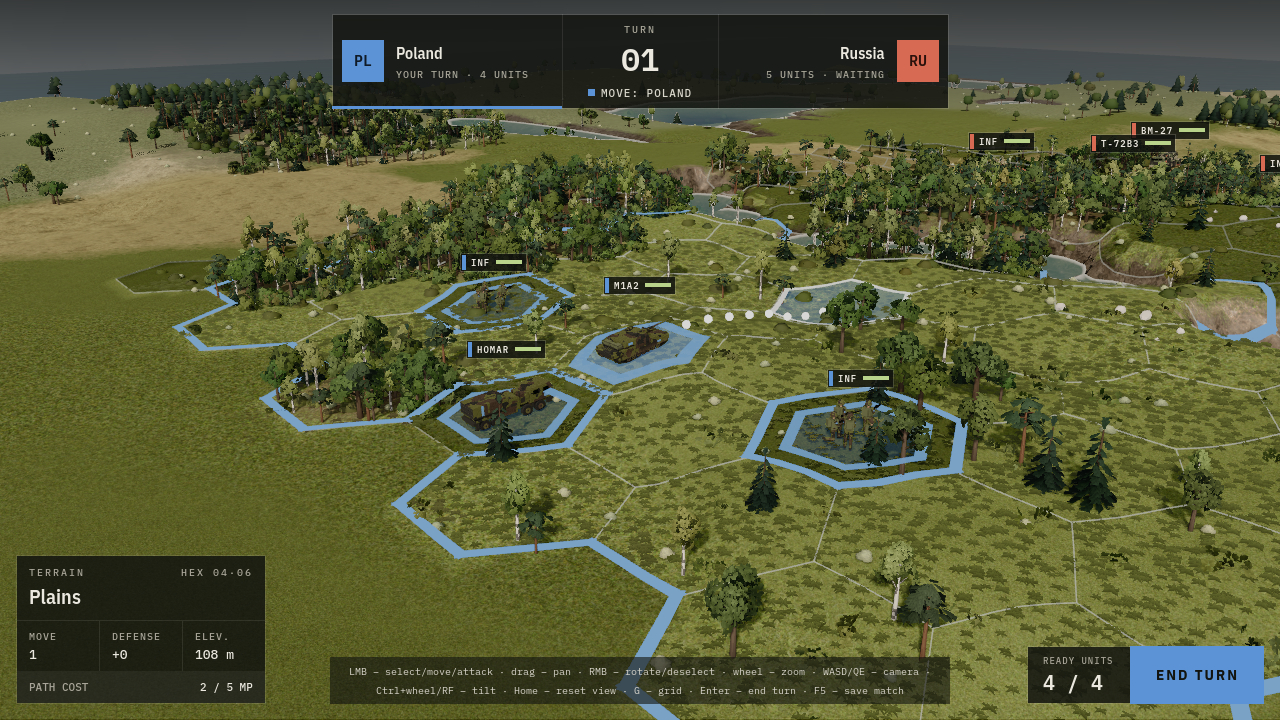
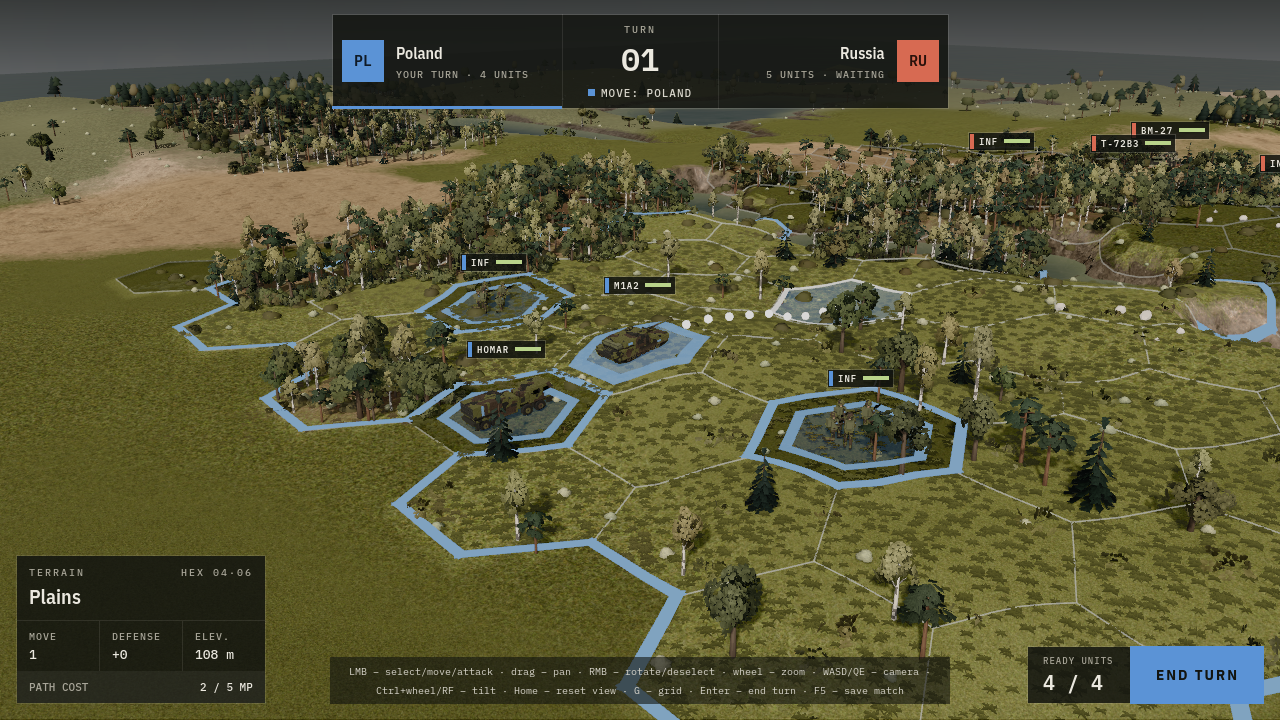
TASK-071: Central-Eastern European look – LookPreset (muted_summer default: yellowed greens, sandy soil, pine-heavy mixed forest, dark opaque green water, muted grade), study presets early_autumn/overcast, SCREENSHOT_LOOK; shore foam removed from the water shader; playtested, done

diff --git a/docs/tasks/TASK-071-central-european-look.md b/docs/tasks/TASK-071-central-european-look.md
@@ -1,6 +1,6 @@
 # TASK-071: Central-Eastern European look – species, palette, terrain character
 
-- **Status**: idea – needs a study first (screenshots of options for the human to pick, like TASK-059).
+- **Status**: done – study done, the human picked variant B (muted summer, 2026-10-23).
 - **Layers**: presentation (`tree_species.gd`, `tree_meshes.gd`, `tree_field.gd` colours, terrain textures/tints, `color_grade.gd`, grass colours), docs
 - **Depends on**: soft **TASK-061**, **TASK-070**
 - **Model**: sonnet (opus for the species/mesh study if needed)
@@ -19,7 +19,11 @@ The battlefield reads as Poland / Belarus / western Russia in late summer or ear
 
 ## Acceptance criteria (testable)
 
-- [ ] (to be written when `ready`, after the study.)
+- [x] `LookPreset` holds the look (ground tints, leaf colours, species shares, autumn share, grade, water, fog/exposure); the default is `muted_summer`, `current` reproduces the old look.
+- [x] Pine-heavy mixed forest (pine 78 % / spruce 22 %, birch 50 % / oak 20 % / alder 30 %); yellowed, darker greens; sandy dirt.
+- [x] Water is opaque, dark and green (not Mediterranean blue).
+- [x] Tests: `test_look_preset.gd`, shares in `test_tree_species.gd`; `tools/check.sh` passes.
+- [x] Human playtest: the map reads as Central-Eastern Europe.
 
 ## Playtest (for the human)
 
@@ -36,4 +40,6 @@ None (presentation only).
 
 ## Implementation notes
 
-_Filled in by the agent when done._
+Study: `SCREENSHOT_LOOK=<current|muted_summer|early_autumn|overcast>` in `tools/screenshot.sh` (renders in `.screenshots/look/`). The human chose B `muted_summer` and approved its water; the other presets stay in `LookPreset.PRESETS` for comparison (C autumn, D overcast with grey fog).
+New: `src/presentation/look_preset.gd`; read by `ColorGrade` (grade merged, `reset_cache()`), `GraphicsQuality.apply_environment` (fog/exposure), `TerrainGround`/`TerrainTextures` (layer tints), `TreeField` (leaf colours), `TreeSpecies` (shares, autumn share) and `MapView._build_water`.
+Not done (follow-ups): reeds/ferns/heather undergrowth (TASK-070), hornbeam/aspen species, bark colours, an overcast HDRI. The big open lawn changes only slightly with the ground tint.

diff --git a/docs/tasks/BACKLOG.md b/docs/tasks/BACKLOG.md
@@ -79,7 +79,7 @@ Rows after TASK-001 are in priority order (top = next to implement).
 | [TASK-067](TASK-067-infantry-v3.md) | Infantry v3: smooth procedural soldiers (swept bodies, soft gear, chamfered weapons), squad budget 40k | 🔴 blocked | **TASK-030**, **TASK-062** (soft: TASK-063); reference `docs/design/showcase/` |
 | TASK-069 | Tank v3: rework `m1a2_sepv3` / `t72b3` after the M1A2 study (chamfers, small parts, hidden geometry cut, ≤ 40k) – `unit-modeler` | 💡 idea | **TASK-030**, **TASK-062**; reference `docs/design/showcase/m1a2_showcase.gd.txt` |
 | TASK-070 | Varied vegetation on open ground: grass patches, tall grass, flowers, scrub clumps | 💡 idea | **TASK-057**, **TASK-061** (soft: TASK-071) |
-| TASK-071 | Central-Eastern European look: species, palette, terrain character (study first) | 💡 idea | soft: TASK-061, TASK-070 |
+| TASK-071 | Central-Eastern European look: species, palette, terrain character (study first) | 🔵 done | soft: TASK-061, TASK-070 |
 | TASK-072 | Scalability for very large maps: benchmark tool, chunked lazy world, distance budgets (study first) | 💡 idea | soft: TASK-061, TASK-070 |
 | TASK-007 | Fog of war | 💡 idea | GDD open questions: scale, modes |
 | TASK-035 | Rivers, roads, named cities with buildings (v2 design, lines 41–130, 504–594) | 💡 idea | GDD decision ("Ideas from the visual design"), hand-made maps |
